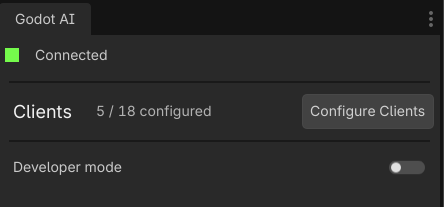
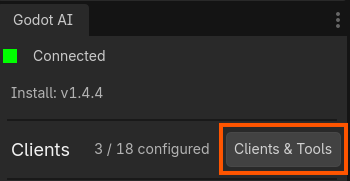
docs: update dock screenshot with Clients & Tools button highlighted
New screenshot calls out the Clients & Tools button — the entry point
for configuring AI clients and managing tool-domain caps (relevant for
Antigravity's 100-tool limit). Width in README adjusted to the image's
native 350px so it renders crisp.

diff --git a/README.md b/README.md
@@ -65,7 +65,7 @@ In Godot: **Project > Project Settings > Plugins** — enable **Godot AI**.
 
 The plugin will automatically start the MCP server, connect over WebSocket, and show status in the **Godot AI** dock.
 
-<p align="center"><img src="docs/images/dock.png" alt="Godot AI dock" width="640"></p>
+<p align="center"><img src="docs/images/dock.png" alt="Godot AI dock — Clients & Tools button highlighted" width="350"></p>
 
 ### 3. Connect your MCP client
 
